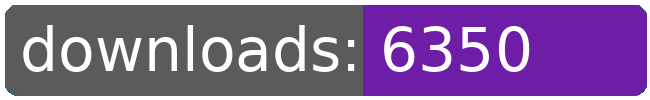
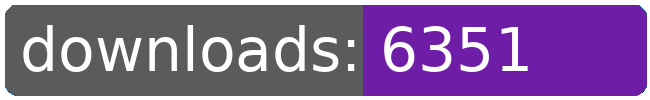
dl log written

Changed region(s): [[0.7692, 0.24, 0.8308, 0.72]]

diff --git a/README.md b/README.md
@@ -21,8 +21,8 @@
 		<td>8398</td>
 		<td>8403</td>
 		<td>8408</td>
-		<td>8412</td>
-		<td>+ 4</td>
+		<td>8413</td>
+		<td>+ 5</td>
 	</tr>
 	<tr>
 		<td>aberrant.kahet.outfitter</td>
@@ -153,8 +153,8 @@
 		<td>6341</td>
 		<td>6343</td>
 		<td>6347</td>
-		<td>6350</td>
-		<td>+ 3</td>
+		<td>6351</td>
+		<td>+ 4</td>
 	</tr>
 	<tr>
 		<td>purchase.bactrian</td>
@@ -274,8 +274,8 @@
 		<td></td>
 		<td></td>
 		<td></td>
-		<td>127279</td>
-		<td>50</td>
+		<td>127281</td>
+		<td>52</td>
 	</tr>
 </table>
 </sub></sup>
@@ -300,8 +300,8 @@
 		<td>8398</td>
 		<td>8403</td>
 		<td>8408</td>
-		<td>8412</td>
-		<td>+ 4</td>
+		<td>8413</td>
+		<td>+ 5</td>
 	</tr>
 	<tr>
 		<td>aberrant.kahet.outfitter</td>
@@ -377,8 +377,8 @@
 		<td>6341</td>
 		<td>6343</td>
 		<td>6347</td>
-		<td>6350</td>
-		<td>+ 3</td>
+		<td>6351</td>
+		<td>+ 4</td>
 	</tr>
 	<tr>
 		<td>purchaseable.cloakingdevice</td>
@@ -553,8 +553,8 @@
 		<td></td>
 		<td></td>
 		<td></td>
-		<td>127279</td>
-		<td>50</td>
+		<td>127281</td>
+		<td>52</td>
 	</tr>
 </table>
 </sub></sup>
